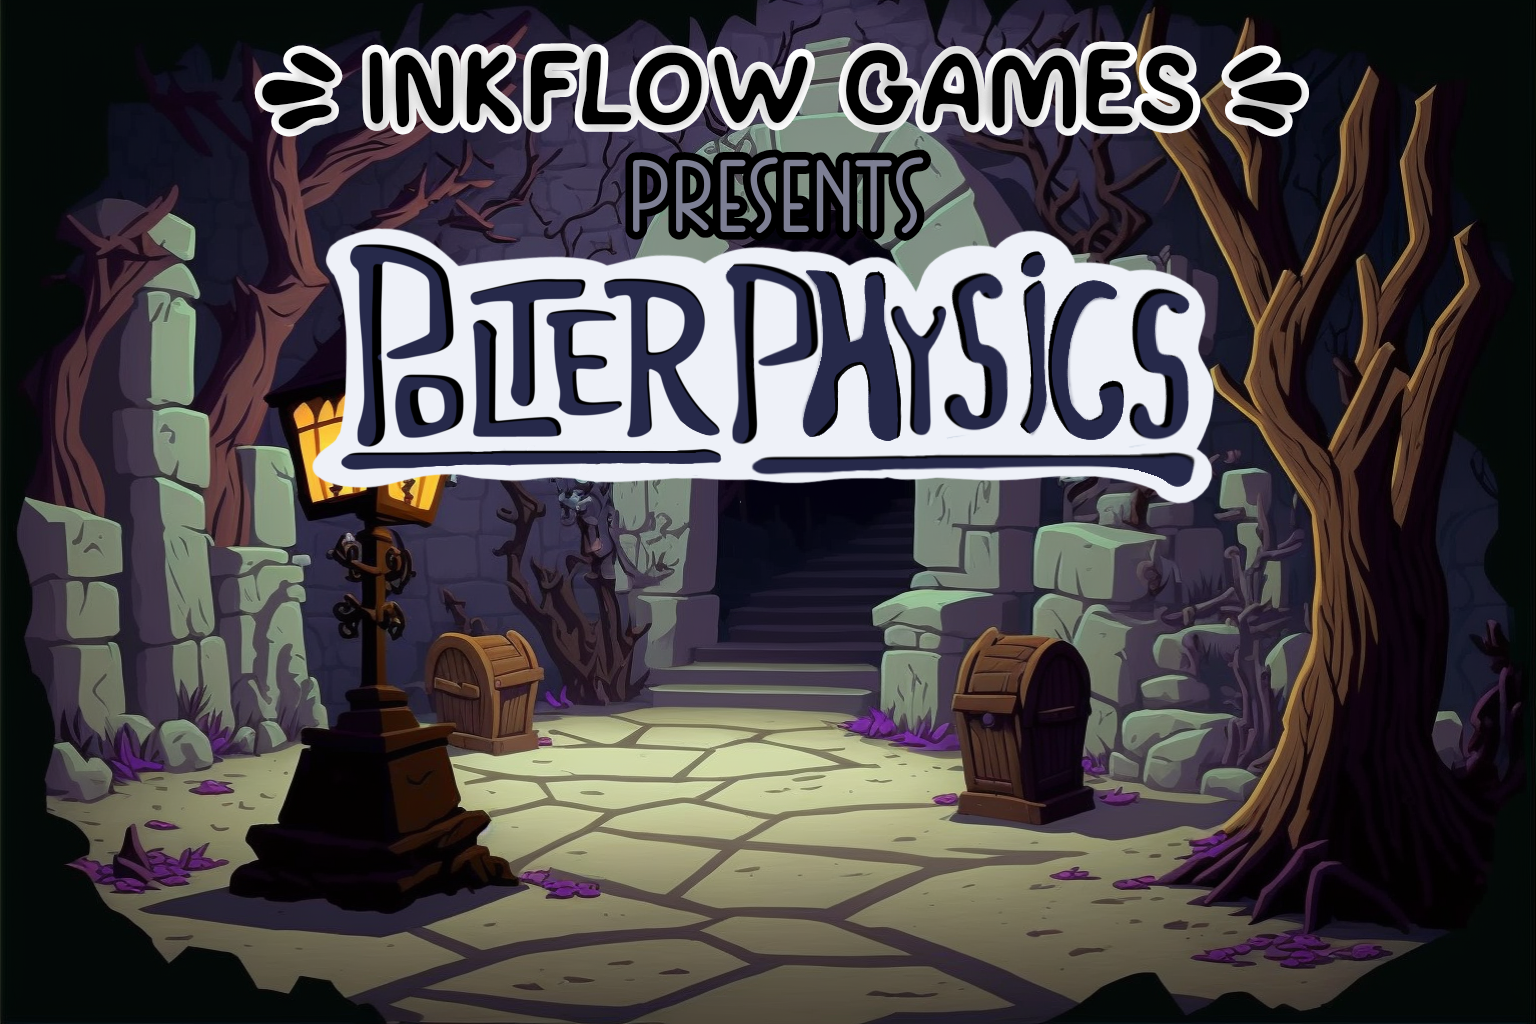
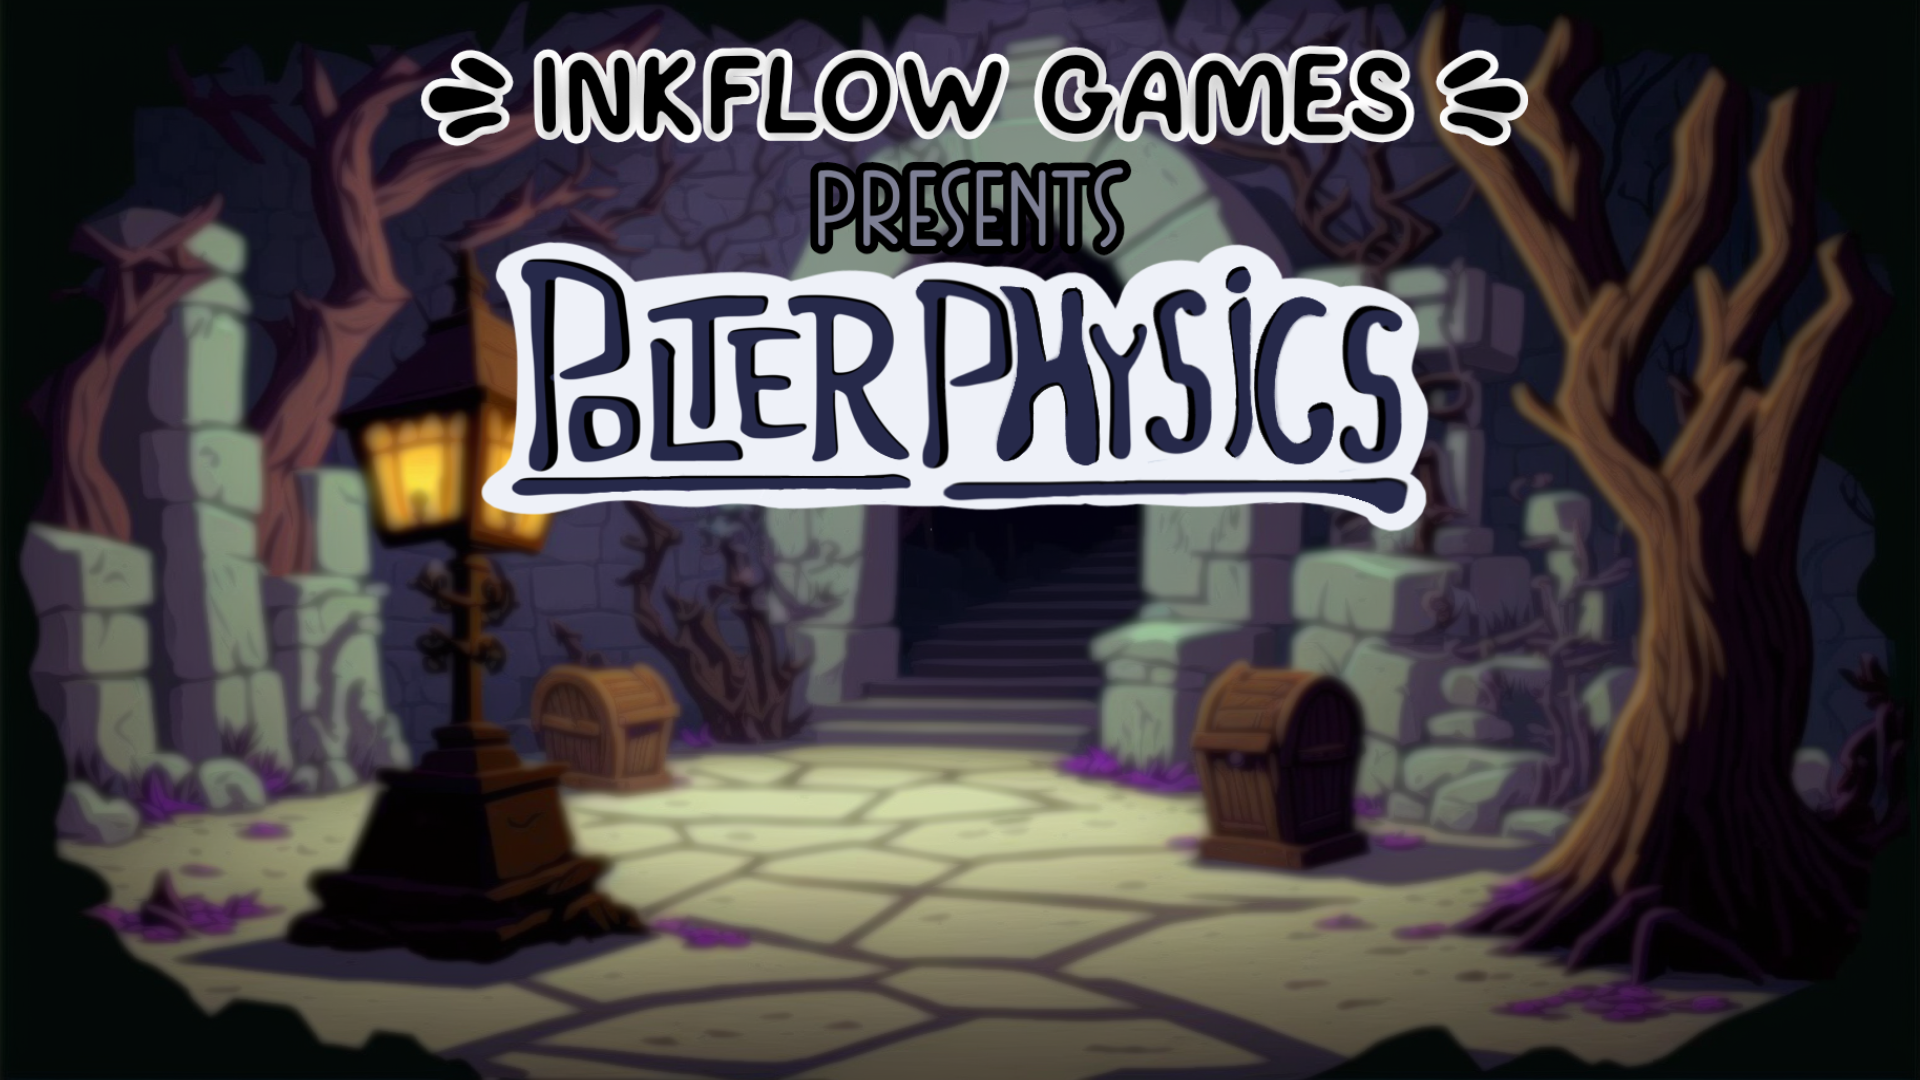
Better menus' images + level 10 fix
Also added centers (drawing) to polygons

diff --git a/objects/object.py b/objects/object.py
@@ -201,7 +201,7 @@ class Polygon:
         """
         centerpos = self.centroid
         pygame.draw.polygon(surface,color,self.vertices)
-        #pygame.draw.circle(surface,(0,255,0),self.center(),3)
+        pygame.draw.circle(surface,(194,86,63),self.center(),3)
         return
             
     def support(self, direction):
